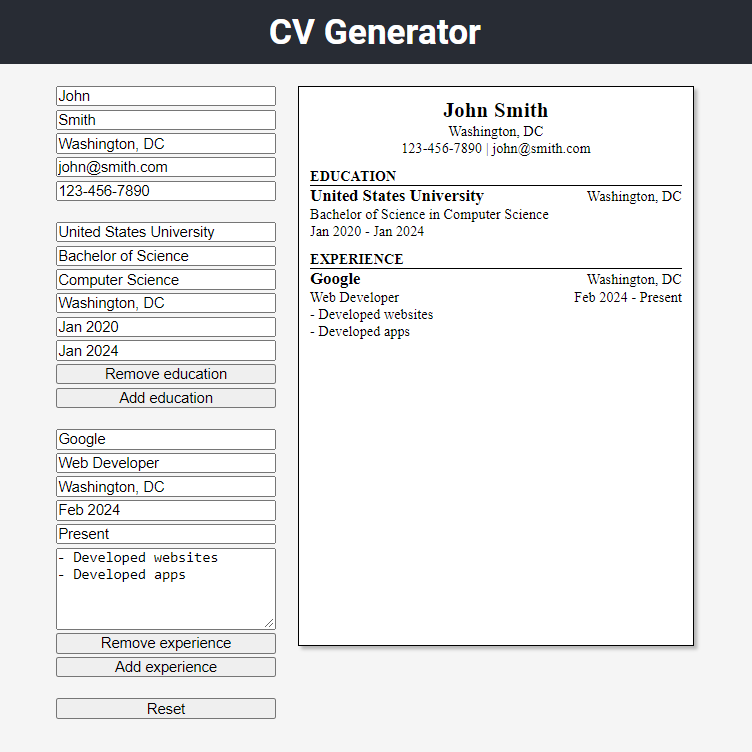
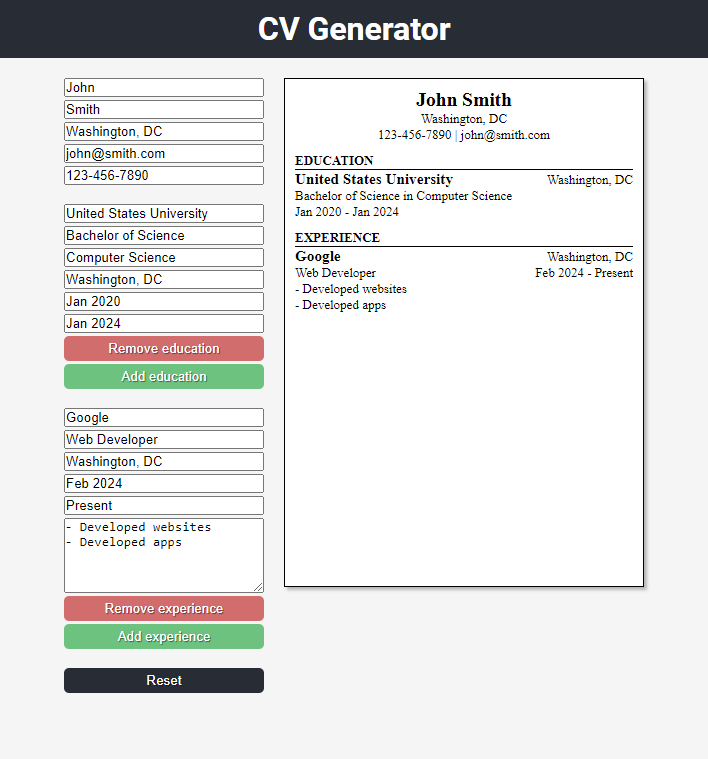
Updated styling for buttons

Changed region(s): [[0.0, 0.0, 1.0, 0.9481]]

diff --git a/src/components/Experience.jsx b/src/components/Experience.jsx
@@ -46,7 +46,10 @@ function Experience(props) {
             value={experience.description}
             onChange={(event) => props.handleExperience(event, index)}
           />
-          <button onClick={(index) => props.removeExperience(index)}>
+          <button
+            className='button-remove'
+            onClick={(index) => props.removeExperience(index)}
+          >
             Remove experience
           </button>
         </div>
@@ -57,7 +60,9 @@ function Experience(props) {
   return (
     <div className='experience'>
       {experienceForm()}
-      <button onClick={props.addExperience}>Add experience</button>
+      <button className='button-add' onClick={props.addExperience}>
+        Add experience
+      </button>
     </div>
   );
 }

diff --git a/src/components/Education.jsx b/src/components/Education.jsx
@@ -47,7 +47,10 @@ function Education(props) {
             value={education.end}
             onChange={(event) => props.handleEducation(event, index)}
           />
-          <button onClick={(index) => props.removeEducation(index)}>
+          <button
+            className='button-remove'
+            onClick={(index) => props.removeEducation(index)}
+          >
             Remove education
           </button>
         </div>
@@ -58,7 +61,9 @@ function Education(props) {
   return (
     <div className='education'>
       {educationForm()}
-      <button onClick={props.addEducation}>Add education</button>
+      <button className='button-add' onClick={props.addEducation}>
+        Add education
+      </button>
     </div>
   );
 }

diff --git a/src/styles/App.css b/src/styles/App.css
@@ -64,6 +64,49 @@ body {
   gap: 3px;
 }
 
+button {
+  padding: 5px;
+  border-radius: 5px;
+  border: none;
+  background-color: #282c34;
+  color: white;
+  cursor: pointer;
+  text-shadow: 1px 1px 1px rgb(0, 0, 0, 0.5);
+}
+
+button:hover {
+  background-color: #1a1d23;
+}
+
+button:active {
+  background-color: #0d0f12;
+  transform: scale(0.95);
+}
+
+.button-add {
+  background-color: #6dc280;
+}
+
+.button-add:hover {
+  background-color: #5fae6e;
+}
+
+.button-add:active {
+  background-color: #4d945b;
+}
+
+.button-remove {
+  background-color: #d26d6d;
+}
+
+.button-remove:hover {
+  background-color: #c05a5a;
+}
+
+.button-remove:active {
+  background-color: #ae4747;
+}
+
 textarea {
   height: 75px;
 }
